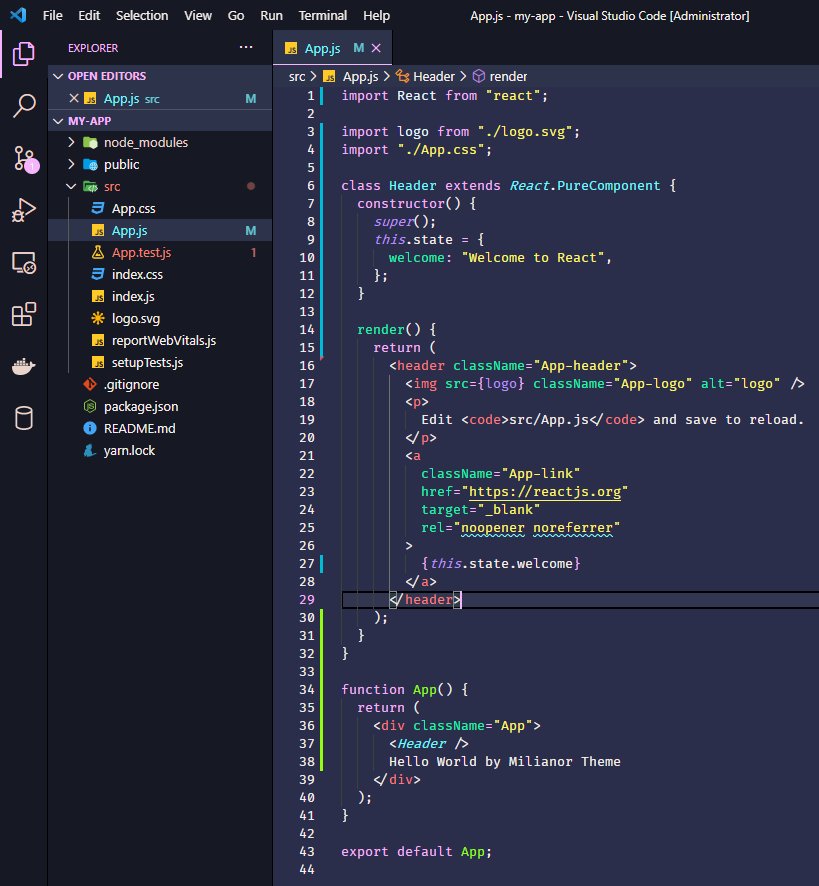
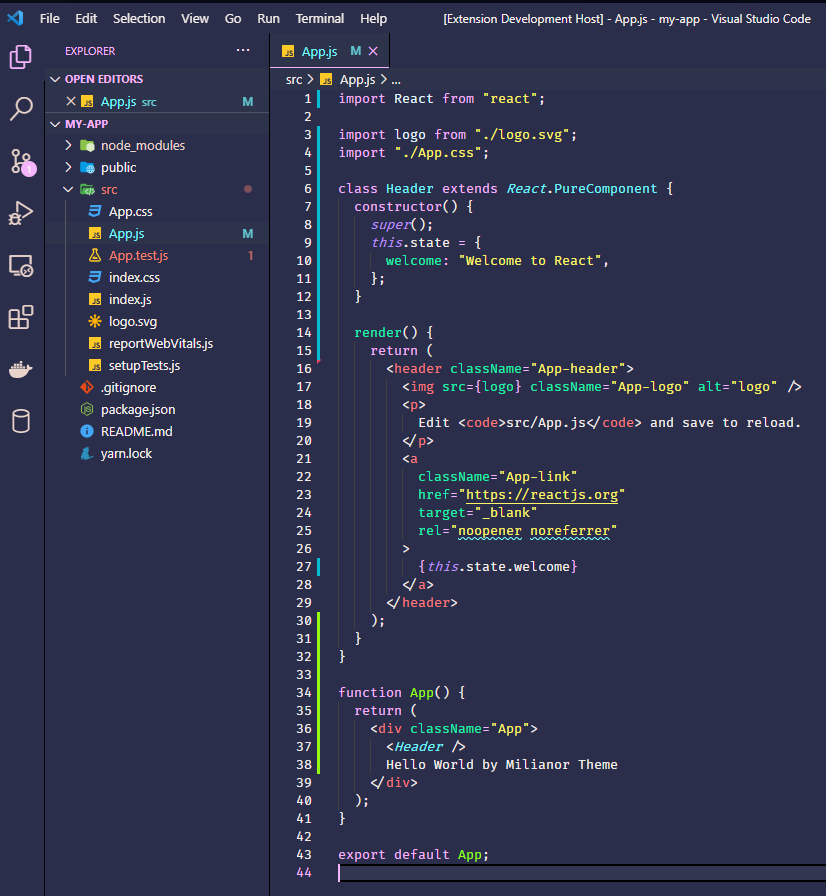
update image and dark aqua

diff --git a/src/colors/darkAqua/aquaIdeColors.ts b/src/colors/darkAqua/aquaIdeColors.ts
@@ -13,11 +13,11 @@ export const aquaIdeColors = {
   focusBorder: "#000000",
   "selection.background": "#993d59",
   "scrollbar.shadow": colors.mauve,
-  "activityBar.background": "#161923",
+  "activityBar.background": colors.background,
   "activityBarBadge.foreground": "#f6efeb",
   "activityBar.border": "#000000",
-  "activityBar.activeBackground": "#161923",
-  "sideBar.background": "#161923",
+  "activityBar.activeBackground": colors.background,
+  "sideBar.background": colors.background,
   "sideBar.foreground": "#f6efeb",
   "sideBarSectionHeader.background": "#2d334a",
   "sideBarSectionHeader.foreground": colors.mauve,
@@ -45,7 +45,7 @@ export const aquaIdeColors = {
   "statusBar.noFolderForeground": "#ffffff",
   "statusBarItem.remoteBackground": colors.tickleMePink,
   "statusBarItem.remoteForeground": "#ffffff",
-  "titleBar.activeBackground": "#161923",
+  "titleBar.activeBackground": colors.background,
   "titleBar.activeForeground": "#f6efeb",
   "titleBar.inactiveBackground": "#3c3c3c99",
   "titleBar.inactiveForeground": "#cccccc99",
@@ -53,7 +53,7 @@ export const aquaIdeColors = {
   "menubar.selectionForeground": "#cccccc",
   "menubar.selectionBackground": "#ffffff1a",
   "menu.foreground": "#cccccc",
-  "menu.background": "#161923",
+  "menu.background": colors.background,
   "menu.selectionForeground": colors.mauve,
   "menu.selectionBackground": "#2d334a",
   "menu.selectionBorder": "#00000000",
@@ -122,7 +122,7 @@ export const aquaIdeColors = {
   "diffEditor.insertedTextBackground": "#9bb95533",
   "diffEditor.removedTextBackground": "#ff000033",
   "diffEditor.border": colors.mauve,
-  "panel.background": "#161923",
+  "panel.background": colors.background,
   "panel.border": "#000000",
   "panelTitle.activeBorder": colors.mauve,
   "panelTitle.activeForeground": colors.mauve,
@@ -153,13 +153,13 @@ export const aquaIdeColors = {
   "breadcrumb.background": "#2d334a",
   "breadcrumb.foreground": "#f6efeb",
   "breadcrumb.focusForeground": "#f6efeb",
-  "editorGroupHeader.tabsBackground": "#161923",
+  "editorGroupHeader.tabsBackground": colors.background,
   "tab.activeForeground": colors.mauve,
   "tab.border": "#000000",
   "tab.activeBackground": "#2d334a",
   "tab.activeBorder": colors.mauve,
   "tab.activeBorderTop": "#00000000",
-  "tab.inactiveBackground": "#161923",
+  "tab.inactiveBackground": colors.background,
   "tab.inactiveForeground": "#f6efeb",
   "scrollbarSlider.background": "#79797966",
   "scrollbarSlider.hoverBackground": "#646464b3",
@@ -167,7 +167,7 @@ export const aquaIdeColors = {
   "progressBar.background": colors.mauve,
   "widget.shadow": "#0000005c",
   "editorWidget.foreground": "#f6efeb",
-  "editorWidget.background": "#161923",
+  "editorWidget.background": colors.background,
   "editorWidget.resizeBorder": colors.mauve,
   "pickerGroup.border": "#3f3f46",
   "pickerGroup.foreground": colors.mauve,
@@ -181,7 +181,7 @@ export const aquaIdeColors = {
   "notificationsInfoIcon.foreground": "#74f9ff",
   "notificationCenter.border": colors.mauve,
   "notificationCenterHeader.foreground": colors.mauve,
-  "notificationCenterHeader.background": "#161923",
+  "notificationCenterHeader.background": colors.background,
   "notifications.border": colors.mauve,
   "gitDecoration.addedResourceForeground": colors.chartreuse,
   "gitDecoration.conflictingResourceForeground": colors.cornflowerBlue,
@@ -208,20 +208,20 @@ export const aquaIdeColors = {
   "editorSuggestWidget.highlightForeground": "#0097fb",
   "editorSuggestWidget.selectedBackground": "#062f4a",
   "editorHoverWidget.foreground": "#f6efeb",
-  "editorHoverWidget.background": "#161923",
+  "editorHoverWidget.background": colors.background,
   "editorHoverWidget.border": "#454545",
   "peekView.border": colors.mauve,
   "peekViewEditor.background": "#001f33",
   "peekViewEditorGutter.background": "#001f33",
   "peekViewEditor.matchHighlightBackground": "#ff8f0099",
   "peekViewEditor.matchHighlightBorder": "#ee931e",
-  "peekViewResult.background": "#161923",
+  "peekViewResult.background": colors.background,
   "peekViewResult.fileForeground": "#ffffff",
   "peekViewResult.lineForeground": "#bbbbbb",
   "peekViewResult.matchHighlightBackground": "#ea5c004d",
   "peekViewResult.selectionBackground": "#3399ff33",
   "peekViewResult.selectionForeground": "#ffffff",
-  "peekViewTitle.background": "#161923",
+  "peekViewTitle.background": colors.background,
   "peekViewTitleDescription.foreground": "#ccccccb3",
   "peekViewTitleLabel.foreground": "#ffffff",
   "icon.foreground": "#f6efeb",
